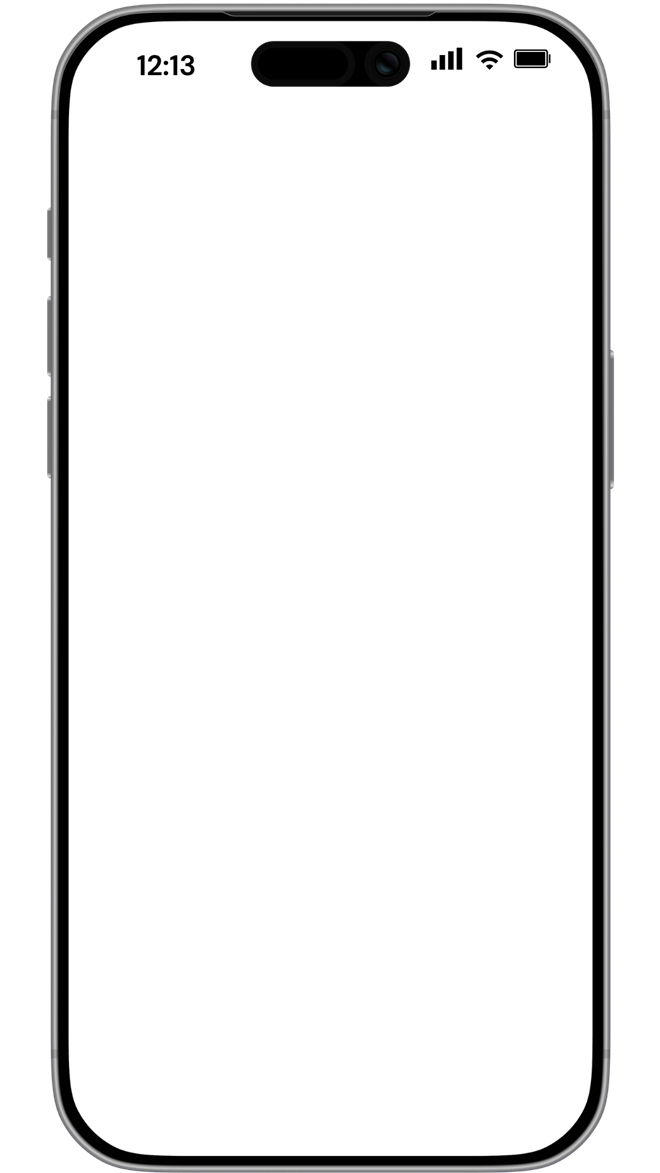
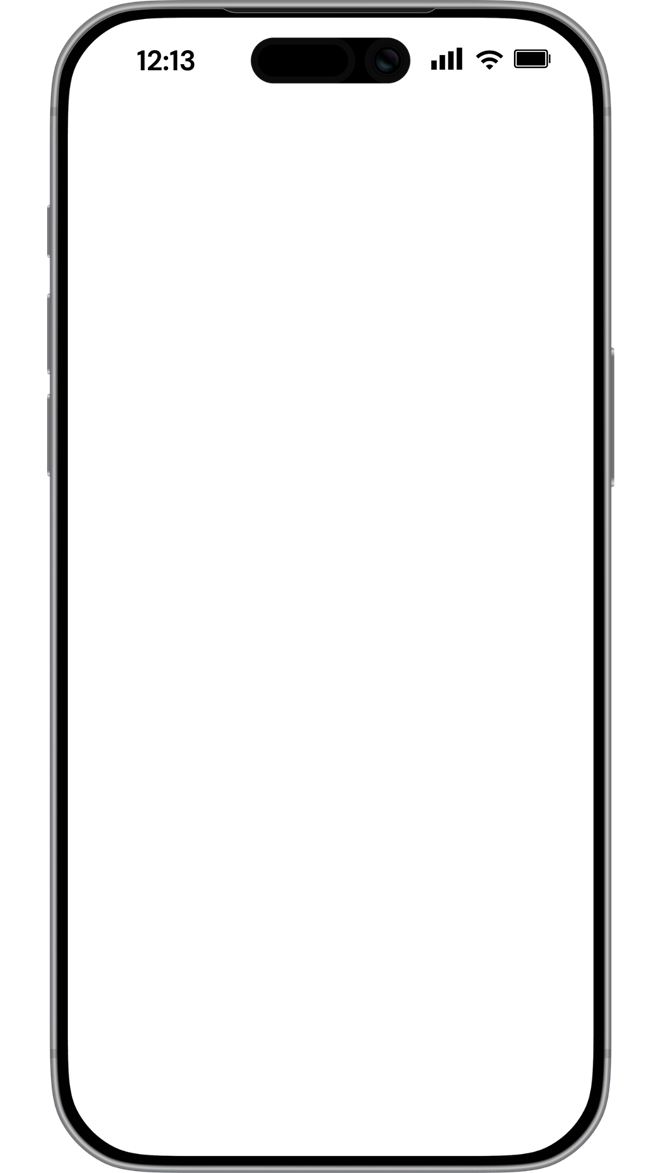
LP: iPhone枠を差し替え、画面写真の四隅が枠からはみ出すのを修正
・枠の画像を新しいものに差し替え（上端の不要なマークが消えたもの）。
  画面部分の位置も少し変わったので測り直した: x112..970 / y30..1890。
・四隅の白い角: 枠は画面の角丸(半径136px)のぶんが透明で、そこは端末の外側なので
  何も被さらない。四角いままの写真の角がそこから覗いていた。
  写真側にも同じ角丸を付けて解消（136/859=15.83%(横) / 136/1861=7.31%(縦)）。

Changed region(s): [[0.0606, 0.0, 0.9394, 0.9821], [0.8182, 0.9821, 0.8485, 1.0]]

diff --git a/public/index.html b/public/index.html
@@ -500,13 +500,16 @@
 
     /* --- 実際の画面キャプチャ --- */
     /* iPhoneの枠(透過PNG)を上に重ね、その内側に画面写真を敷く。
-       枠の画面部分の実寸は 1080x1920 の中の x113..968 / y36..1890 なので、その比率で配置する。
-       画面写真は枠と同じ縦横比(856:1855)で書き出し済み。枠に描かれた時計・電池と重ならないよう、
-       上端にアプリの背景色の帯を焼き込んである。 */
+       枠の画面部分の実寸は 1080x1920 の中の x112..970 / y30..1890 なので、その比率で配置する。
+       画面写真は枠と同じ縦横比で書き出し済み。枠に描かれた時計・電池と重ならないよう、
+       上端にアプリの背景色の帯を焼き込んである。
+       画面の角丸(半径136px)ぶんは枠側が透明なので、写真にも同じ角丸を付けないと
+       四隅から写真の白い角がはみ出す。136/859=15.83%(横)・136/1861=7.31%(縦)。 */
     .lp-shot { position: relative; width: 208px; margin: 0 auto; flex: none;
       aspect-ratio: 1080 / 1920; filter: drop-shadow(0 14px 26px rgba(90, 64, 40, .22)); }
-    .lp-shot .scr { position: absolute; left: 10.46%; top: 1.88%; width: 79.26%; height: 96.61%;
-      display: block; object-fit: cover; object-position: top center; }
+    .lp-shot .scr { position: absolute; left: 10.37%; top: 1.56%; width: 79.54%; height: 96.93%;
+      display: block; object-fit: cover; object-position: top center;
+      border-radius: 15.83% / 7.31%; }
     .lp-shot .frm { position: absolute; inset: 0; width: 100%; height: 100%; display: block; }
     .lp-hero .lp-shot { width: 250px; margin-top: 26px; }
     /* 一部だけを切り出したキャプチャ（枠に入れると余白だらけになるもの）はカード風に見せる */
